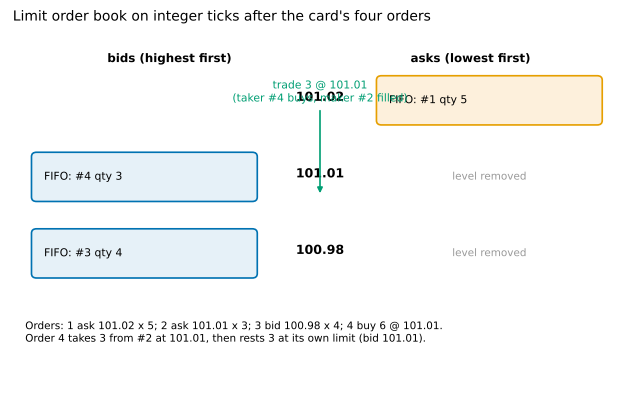
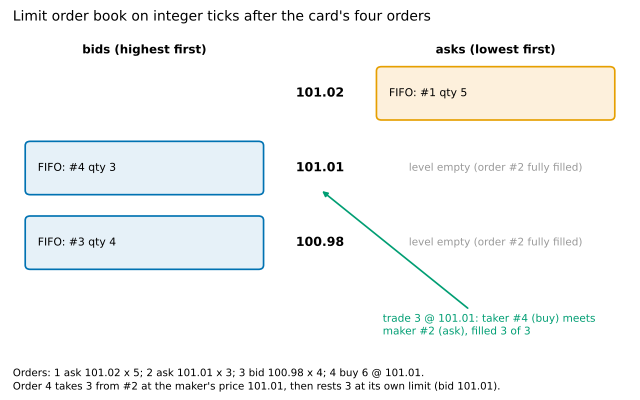
WIP: diagrams in progress
Claude-Session: https://claude.ai/code/session_011jxtZvfPgVEi4xYQRFGwx1

diff --git a/.anchor/session-state.md b/.anchor/session-state.md
@@ -1,20 +1,33 @@
 # Session state (auto-saved — last known reality)
 
-_Updated: 2026-10-19 19:38:09_  ·  branch: `claude/quant-deck-cpp-training-0rix4z`
+_Updated: 2026-10-19 19:39:03_  ·  branch: `claude/quant-deck-cpp-training-0rix4z`
 
 ## Uncommitted changes
 ```
  M .anchor/session-state.md
+ M anki-deskstrat-rates-credit/media/17_cpp_m6_37_mc_error_paths.png
+ M anki-deskstrat-rates-credit/media/17_cpp_m7_20_dual_product.png
+ M anki-deskstrat-rates-credit/media/17_cpp_m7_22_pricer_design.png
+ M anki-deskstrat-rates-credit/media/17_cpp_m7_30_lru_list_map.png
+ M anki-deskstrat-rates-credit/media/17_cpp_m7_32_order_book.png
+ M anki-deskstrat-rates-credit/media/17_cpp_m7_6_binomial_tree.png
 ```
 
 Diff stat:
 ```
- .anchor/session-state.md | 21 +--------------------
- 1 file changed, 1 insertion(+), 20 deletions(-)
+ .anchor/session-state.md                           |  27 ++++++---------------
+ .../media/17_cpp_m6_37_mc_error_paths.png          | Bin 48705 -> 49029 bytes
+ .../media/17_cpp_m7_20_dual_product.png            | Bin 39916 -> 42533 bytes
+ .../media/17_cpp_m7_22_pricer_design.png           | Bin 52829 -> 52841 bytes
+ .../media/17_cpp_m7_30_lru_list_map.png            | Bin 46845 -> 47004 bytes
+ .../media/17_cpp_m7_32_order_book.png              | Bin 43279 -> 51608 bytes
+ .../media/17_cpp_m7_6_binomial_tree.png            | Bin 55338 -> 57472 bytes
+ 7 files changed, 7 insertions(+), 20 deletions(-)
 ```
 
 ## Recent commits
 ```
+892324a Add rates options diagrams
 4ea9972 WIP: diagrams in progress
 d8569f7 Add structured products diagrams; TARN KO probability rounding
 34e1da0 WIP: diagrams in progress
@@ -22,7 +35,6 @@ d8569f7 Add structured products diagrams; TARN KO probability rounding
 89506d5 WIP: diagrams in progress
 93e95b5 Add XVA and repo diagrams
 faa503d WIP: diagrams in progress
-36bb9ae Add CDS and desk 6-9 diagrams; fix sovereign credit events, repo spike currency, hazard sensitivity
 ```
 
 ## Resume
